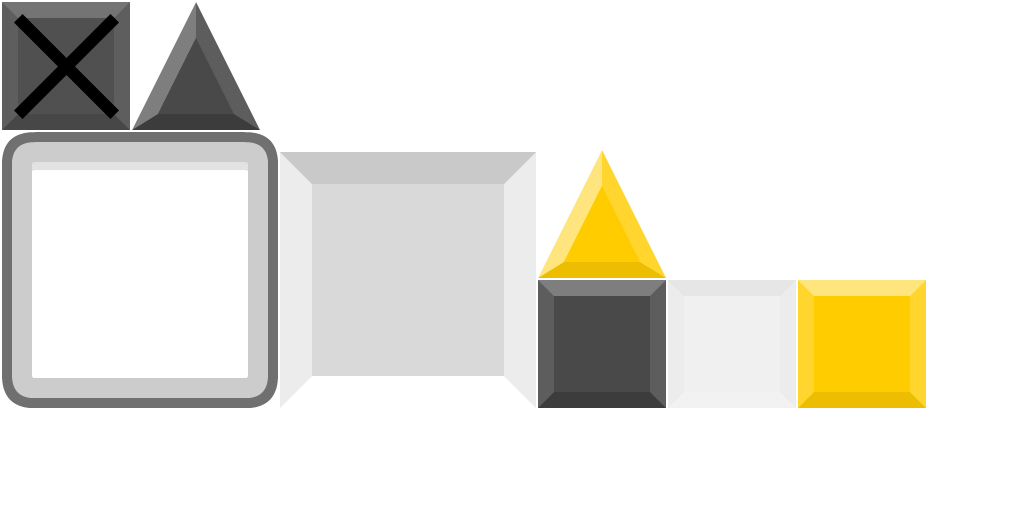
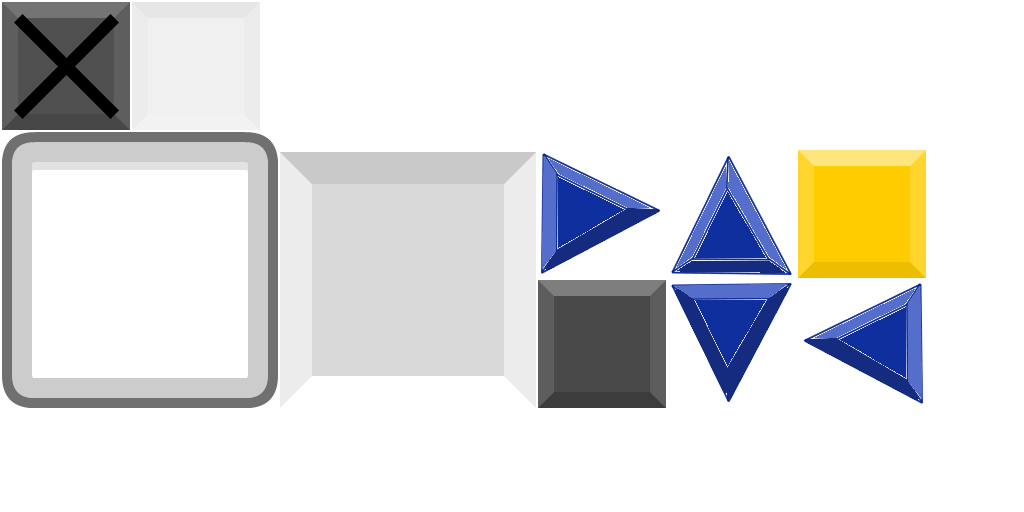
Add some easing for the tween functions on the maps.  Add one-way tiles.

Changed region(s): [[0.5312, 0.2812, 0.9062, 0.8125], [0.125, 0.0, 0.25, 0.2812]]

diff --git a/core/src/com/josephcatrambone/lighttheworld/Level.kt b/core/src/com/josephcatrambone/lighttheworld/Level.kt
@@ -1,29 +1,23 @@
 package com.josephcatrambone.lighttheworld
 
-import com.badlogic.gdx.Gdx
-import com.badlogic.gdx.graphics.g2d.TextureAtlas
-import com.badlogic.gdx.math.Vector2
-import com.badlogic.gdx.math.Vector3
-import com.badlogic.gdx.scenes.scene2d.Actor
 import com.badlogic.gdx.scenes.scene2d.InputEvent
-import com.badlogic.gdx.scenes.scene2d.InputListener
 import com.badlogic.gdx.scenes.scene2d.Touchable
-import com.badlogic.gdx.scenes.scene2d.ui.CheckBox
-import com.badlogic.gdx.scenes.scene2d.ui.Skin
 import com.badlogic.gdx.scenes.scene2d.ui.Table
-import com.badlogic.gdx.scenes.scene2d.utils.ChangeListener
 import com.badlogic.gdx.scenes.scene2d.utils.ClickListener
-import com.badlogic.gdx.scenes.scene2d.utils.Drawable
-import com.badlogic.gdx.scenes.scene2d.utils.TextureRegionDrawable
 import com.badlogic.gdx.utils.Align
 import com.josephcatrambone.lighttheworld.tiles.BlockTile
 import com.josephcatrambone.lighttheworld.tiles.LightTile
+import com.josephcatrambone.lighttheworld.tiles.OneWayTile
 import com.josephcatrambone.lighttheworld.tiles.Tile
 
 class Level(mapDescription: String) : Table() {
 	val TEXT_ON = "*"
 	val TEXT_OFF = "."
 	val TEXT_DISABLE = "x"
+	val TEXT_ONEWAY_RIGHT = ">"
+	val TEXT_ONEWAY_UP = "^"
+	val TEXT_ONEWAY_LEFT = "<"
+	val TEXT_ONEWAY_DOWN = "v"
 
 	var taps:Int = 0
 
@@ -61,6 +55,10 @@ class Level(mapDescription: String) : Table() {
 				TEXT_ON -> LightTile(true)
 				TEXT_OFF -> LightTile(false)
 				TEXT_DISABLE -> BlockTile()
+				TEXT_ONEWAY_RIGHT -> OneWayTile(OneWayTile.Direction.RIGHT)
+				TEXT_ONEWAY_UP -> OneWayTile(OneWayTile.Direction.UP)
+				TEXT_ONEWAY_LEFT -> OneWayTile(OneWayTile.Direction.LEFT)
+				TEXT_ONEWAY_DOWN -> OneWayTile(OneWayTile.Direction.DOWN)
 				else -> Tile()
 			}
 			cb.setOrigin(Align.center)
@@ -116,6 +114,8 @@ class Level(mapDescription: String) : Table() {
 				val next = buttons[gridPositionToIndex(x2, y)]
 				if(next is LightTile) {
 					rightList.add(next)
+				} else if(next is OneWayTile && next.direction == OneWayTile.Direction.RIGHT) {
+					// Pass, but don't break.
 				} else {
 					break
 				}
@@ -125,6 +125,8 @@ class Level(mapDescription: String) : Table() {
 				val next = buttons[gridPositionToIndex(x2, y)]
 				if(next is LightTile) {
 					leftList.add(next)
+				} else if(next is OneWayTile && next.direction == OneWayTile.Direction.LEFT) {
+					// Pass, but don't break.
 				} else {
 					break
 				}
@@ -134,6 +136,8 @@ class Level(mapDescription: String) : Table() {
 				val next = buttons[gridPositionToIndex(x, y2)]
 				if(next is LightTile) {
 					downList.add(next)
+				} else if(next is OneWayTile && next.direction == OneWayTile.Direction.DOWN) {
+					// Pass, but don't break.
 				} else {
 					break
 				}
@@ -143,6 +147,8 @@ class Level(mapDescription: String) : Table() {
 				val next = buttons[gridPositionToIndex(x, y2)]
 				if(next is LightTile) {
 					upList.add(next)
+				} else if(next is OneWayTile && next.direction == OneWayTile.Direction.UP) {
+					// Pass, but don't break.
 				} else {
 					break
 				}
@@ -159,7 +165,7 @@ class Level(mapDescription: String) : Table() {
 		}
 	}
 
-	fun isComplete():Boolean = buttons.all { b -> (b is LightTile && b.lit) || b !is LightTile }
+	fun isComplete():Boolean = buttons.all { b -> (b is LightTile && b.lit) || b !is LightTile } && TweenManager.activeTweens.isEmpty()
 
 	override fun act(delta: Float) {
 		super.act(delta)

diff --git a/core/src/com/josephcatrambone/lighttheworld/screens/MainGameScreen.kt b/core/src/com/josephcatrambone/lighttheworld/screens/MainGameScreen.kt
@@ -12,9 +12,20 @@ import com.josephcatrambone.lighttheworld.*
 class MainGameScreen : Screen() {
 
 	val LEVEL_TRANSITION_TIME:Float = 1.15f
-	val LEVEL_TRANSITION_DISTANCE:Float = 5f*Gdx.graphics.height
+	val LEVEL_TRANSITION_DISTANCE:Float = 2f*Gdx.graphics.height
+	val LEVEL_TRANSITION_EASE_IN = 0.6f
+	val LEVEL_TRANSITION_EASE_OUT = 1.5f
 
-	val levels = listOf<String>("""
+	val levels = listOf<String>(
+		"""
+			5 5
+			x x . x x
+			x x . x x
+			. . . . .
+			x x . x x
+			x x . x x
+		""".trimIndent(),
+		"""
 			5 4
 			* * . . .
 			. * . . *
@@ -22,17 +33,28 @@ class MainGameScreen : Screen() {
 			. . . . .
 		""".trimIndent(),
 		"""
-			5 5
-			* * . . .
-			. * . . *
+			5 3
+			x x x x x
+			. . > . .
+			x x x x x
+		""".trimIndent(),
+		"""
+			5 3
+			x . . . x
+			. . > . .
 			x . x x x
-			. . . . .
+		""".trimIndent(),
+			"""
+			5 4
+			x . . . x
+			. . < . .
+			x ^ . . x
 			x . x x x
 		""".trimIndent()
-	)
+		)
 
-	val topScores = mutableListOf<Int>(4, 4)
-	var currentLevelIndex = 0
+	val topScores:MutableList<Int> = MutableList<Int>(levels.size, {_ -> Int.MAX_VALUE})
+	var currentLevelIndex = 4
 	var justCompleted = false
 	var stage: Stage
 	lateinit var level: Level
@@ -44,7 +66,7 @@ class MainGameScreen : Screen() {
 		stage.camera.position.set(0f, 0f, 1f)
 		stage.camera.update(true)
 
-		loadLevel(0)
+		loadLevel(currentLevelIndex)
 	}
 
 	fun loadLevel(index:Int) {
@@ -68,7 +90,7 @@ class MainGameScreen : Screen() {
 		level.setPosition(-(level.getWidth()/2.0f)*levelScale, -LEVEL_TRANSITION_DISTANCE)
 		level.setScale(levelScale)
 
-		TweenManager.add(BasicTween(LEVEL_TRANSITION_TIME, -LEVEL_TRANSITION_DISTANCE, targetY, {f -> level.setPosition(level.getX(), f)}))
+		TweenManager.add(EaseTween(LEVEL_TRANSITION_TIME, -LEVEL_TRANSITION_DISTANCE, targetY, LEVEL_TRANSITION_EASE_IN, {f -> level.setPosition(level.getX(), f)}))
 	}
 
 	override fun update(deltaTime: Float) {
@@ -82,7 +104,7 @@ class MainGameScreen : Screen() {
 					topScores[currentLevelIndex] = level.taps
 				}
 				// Transition the level by moving it away.
-				TweenManager.activeTweens.add(BasicTween(LEVEL_TRANSITION_TIME, level.getY(), LEVEL_TRANSITION_DISTANCE, { f -> level.setPosition(level.getX(), f) }))
+				TweenManager.activeTweens.add(EaseTween(LEVEL_TRANSITION_TIME, level.getY(), LEVEL_TRANSITION_DISTANCE, LEVEL_TRANSITION_EASE_OUT, { f -> level.setPosition(level.getX(), f) }))
 			} else if(TweenManager.activeTweens.isEmpty()) {
 				// If the tween has finished, load the next level and reset justCompleted.
 				println("Tween done.  Loading next level.")

diff --git a/core/src/com/josephcatrambone/lighttheworld/Utils.kt b/core/src/com/josephcatrambone/lighttheworld/Utils.kt
@@ -49,6 +49,21 @@ class BasicTween(time:Float, val startValue:Float, val stopValue:Float, updateFu
 	}
 }
 
+/*** EaseTween
+ * @param ease The exponent for the time function.  Less than one introduces ease out.  Greater than one is ease in.
+ */
+class EaseTween(time:Float, val startValue:Float, val stopValue:Float, val ease:Float, updateFunction: (Float) -> Unit) : Tween(time, updateFunction) {
+	override fun update(dt: Float) {
+		super.update(dt)
+		if(!dead) {
+			// Interpolate from 'from' to 'to'.
+			val totalTimeRatio = Math.pow((this.accumulator / time).toDouble(), ease.toDouble()).toFloat()
+			// Calculate the stop in which we find ourselves.
+			updateFunction(totalTimeRatio*stopValue + (1.0f-totalTimeRatio)*startValue)
+		}
+	}
+}
+
 class MultiStopTween(time:Float, val stops:FloatArray, updateFunction: (Float) -> Unit) : Tween(time, updateFunction) {
 	private val stopSize = time/stops.size.toFloat()
 

diff --git a/core/src/com/josephcatrambone/lighttheworld/tiles/LightTile.kt b/core/src/com/josephcatrambone/lighttheworld/tiles/LightTile.kt
@@ -4,10 +4,6 @@ import com.badlogic.gdx.graphics.g2d.Batch
 //import com.badlogic.gdx.scenes.scene2d.ui.Image
 import com.badlogic.gdx.scenes.scene2d.utils.TextureRegionDrawable
 import com.josephcatrambone.lighttheworld.GDXMain
-import com.josephcatrambone.lighttheworld.Image
-
-open class Tile : Image(TextureRegionDrawable(GDXMain.atlas.findRegion("notile"))) {
-}
 
 class LightTile(var lit:Boolean = false) : Tile() {
 	val activeImage: TextureRegionDrawable = TextureRegionDrawable(GDXMain.atlas.findRegion("yellowtile"))
@@ -28,11 +24,5 @@ class LightTile(var lit:Boolean = false) : Tile() {
 		} else {
 			inactiveImage
 		}
-	}
-}
-
-class BlockTile : Tile() {
-	init {
-		this.drawable = TextureRegionDrawable(GDXMain.atlas.findRegion("blocktile"))
 	}
 }

diff --git a/core/src/com/josephcatrambone/lighttheworld/tiles/OneWayTile.kt b/core/src/com/josephcatrambone/lighttheworld/tiles/OneWayTile.kt
@@ -1,0 +1,23 @@
+package com.josephcatrambone.lighttheworld.tiles
+
+/**
+ * Created by jo on 2017-11-05.
+ */
+import com.badlogic.gdx.graphics.g2d.Batch
+//import com.badlogic.gdx.scenes.scene2d.ui.Image
+import com.badlogic.gdx.scenes.scene2d.utils.TextureRegionDrawable
+import com.josephcatrambone.lighttheworld.GDXMain
+
+class OneWayTile(val direction:Direction) : Tile(
+) {
+	enum class Direction { RIGHT, UP, LEFT, DOWN }
+
+	init {
+		this.drawable = TextureRegionDrawable(
+			GDXMain.atlas.findRegion("oneway_${direction.name.toLowerCase()}")
+		)
+		this.setSize(drawable.minWidth, drawable.minHeight)
+		this.width = drawable.minWidth
+		this.height = drawable.minHeight
+	}
+}

diff --git a/core/src/com/josephcatrambone/lighttheworld/tiles/Tile.kt b/core/src/com/josephcatrambone/lighttheworld/tiles/Tile.kt
@@ -1,0 +1,12 @@
+package com.josephcatrambone.lighttheworld.tiles
+
+import com.badlogic.gdx.scenes.scene2d.utils.TextureRegionDrawable
+import com.josephcatrambone.lighttheworld.GDXMain
+import com.josephcatrambone.lighttheworld.Image
+
+/**
+ * Created by jo on 2017-11-05.
+ */
+open class Tile : Image(TextureRegionDrawable(GDXMain.atlas.findRegion("notile"))) {
+}
+

diff --git a/core/src/com/josephcatrambone/lighttheworld/tiles/BlockTile.kt b/core/src/com/josephcatrambone/lighttheworld/tiles/BlockTile.kt
@@ -1,0 +1,10 @@
+package com.josephcatrambone.lighttheworld.tiles
+
+import com.badlogic.gdx.scenes.scene2d.utils.TextureRegionDrawable
+import com.josephcatrambone.lighttheworld.GDXMain
+
+class BlockTile : Tile() {
+	init {
+		this.drawable = TextureRegionDrawable(GDXMain.atlas.findRegion("blocktile"))
+	}
+}

diff --git a/core/src/com/josephcatrambone/lighttheworld/GDXMain.java b/core/src/com/josephcatrambone/lighttheworld/GDXMain.java
@@ -12,6 +12,13 @@ import com.josephcatrambone.lighttheworld.screens.Screen;
 
 import java.util.Stack;
 
+/**
+ * TODO:
+ * 1. Load level + handle tile propagation.
+ * 2. Level transitions.
+ * 3. Tile variety and high score display.
+ * 4. UI: Restart level button, 'go back' button for level select.
+ */
 public class GDXMain extends ApplicationAdapter {
 	public static final String ATLAS_NAME = "images.atlas";
 
